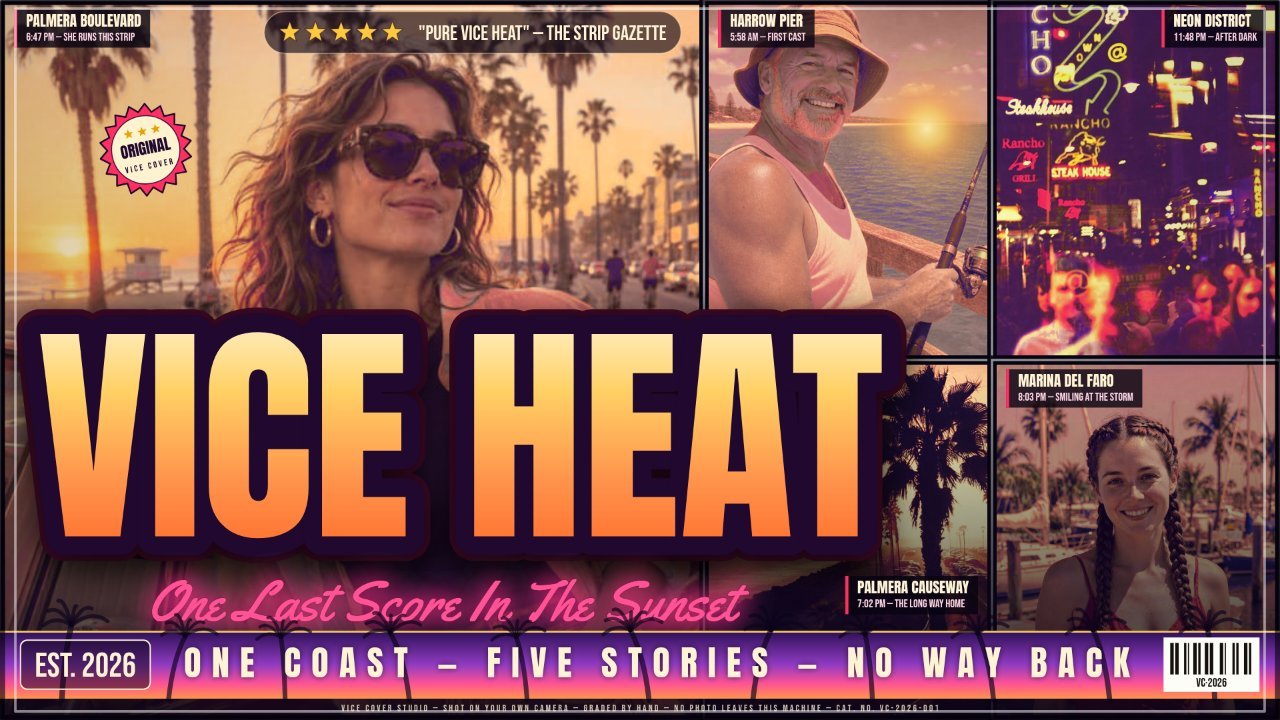
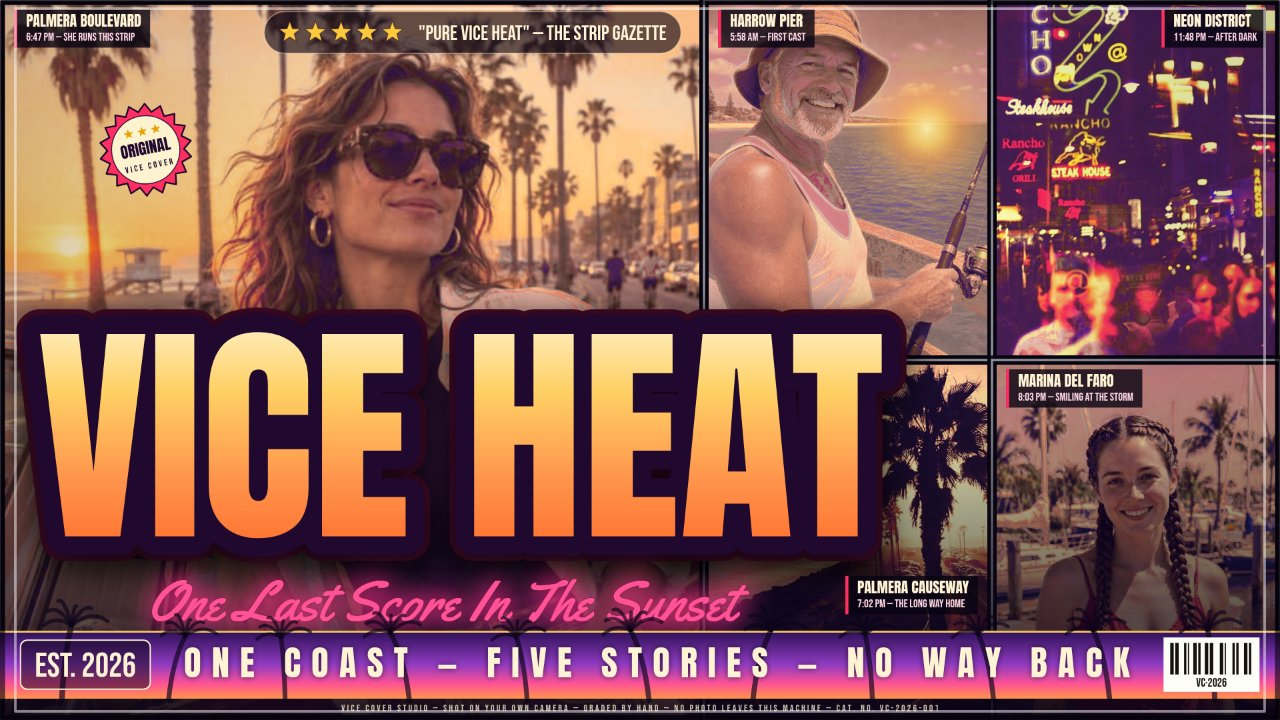
Round 14: neutralize the warm cast on near-neutral facial hair (angler beard read pink-coral under Blockbuster)

diff --git a/app/src/poster.js b/app/src/poster.js
@@ -139,6 +139,35 @@ export const GRADES = {
     // skin moves; saturated props (the red dress, the convertible)
     // fall outside the saturation band.
     magentaTame: { angle: 0.85, target: 18 },
+    // Round 14 (`fringeTame`): the magenta tame above cleared the
+    // 280–350 sector, but the round-13 micro judge still failed the
+    // pier fisherman's beard: measured on the export, a large share
+    // of beard pixels sit in the near-red fringe (hue 350–360 and
+    // 0–10) at saturation ~0.41 and value ~0.66 — the exact notch the
+    // magenta tame fades out of to protect the marina subject's
+    // near-red cheek. The source explains it: his beard is grey-white
+    // (source saturation 0.12–0.19, blue level with green), so the
+    // skin detector barely sees it, the ramp mix paints it with the
+    // sunset's red channel lead, and the saturation lift amplifies
+    // that lead six-fold; what the eye reads is not skin but pink-
+    // coral fringe on grey hair. The fringe tame therefore works on
+    // the FINAL pixel in that notch: red-led pixels whose blue sits
+    // level with their green (the pink signature — true sunset
+    // orange always carries green well above blue) are rotated the
+    // short way toward the same warm anchor AND desaturated toward
+    // the grey they started as; hue rotation alone (the magenta
+    // tame's tool) cannot fix this class, because at preserved
+    // saturation the rotated pixel still reads coral. The marina
+    // subject's shaded cheek carries the same fringe hue at nearly
+    // the same saturation and value, and per-pixel tests cannot
+    // separate the two (round-14 sweeps: value floors and source
+    // skin weights each either spared her cheek or spared his
+    // speckle). What separates them is texture: his pink only exists
+    // interleaved with the grey hair itself, hers is a smooth field.
+    // The tame therefore also requires the pixel to fringe on
+    // near-neutral source neighbours (see fringeGateMap) — pink at
+    // the edge of grey is stubble; pink in a smooth field is a face.
+    fringeTame: { target: 16, angle: 0.75, satKeep: 0.6 },
     harmonize: true,
     glowSun: true,
     titleStops: [[0, '#fff7dc'], [0.34, '#ffd166'], [0.68, '#ff944c'], [1, '#ff6a2a']],
@@ -576,6 +605,45 @@ function halftoneGateMap(px, cw, ch) {
   return gate;
 }
 
+/** The fringe tame's neighbourhood gate (Blockbuster's `fringeTame`,
+ *  round 14): for each pixel, the share of near-neutral source pixels
+ *  (saturation below 0.22) among twelve taps around it, at the same
+ *  radius family as the halftone gate. The tame exists for pink the
+ *  grade paints onto grey facial hair, and grey hair is exactly a
+ *  field of near-neutral pixels interleaved with skin: a fringe-hued
+ *  pixel surrounded by neutrals is stubble territory, while the same
+ *  hue in a smooth field — the marina subject's shaded cheek, whose
+ *  neighbourhood is uniformly skin-toned — is a face, and the tame
+ *  stands down there no matter how closely the hues match. Measured
+ *  on the photo as drawn, before grading, like the halftone gate. */
+function fringeGateMap(px, cw, ch) {
+  const sat = new Float32Array(cw * ch);
+  for (let i = 0, j = 0; i < px.length; i += 4, j++) {
+    const r = px[i];
+    const g = px[i + 1];
+    const b = px[i + 2];
+    const mx = Math.max(r, g, b);
+    sat[j] = mx > 0 ? (mx - Math.min(r, g, b)) / mx : 0;
+  }
+  const s = Math.max(2, Math.min(4, Math.round(Math.min(cw, ch) / 143)));
+  const taps = [[-s, 0], [s, 0], [0, -s], [0, s], [-s, -s], [s, -s], [-s, s], [s, s],
+    [-2 * s, 0], [2 * s, 0], [0, -2 * s], [0, 2 * s]];
+  const gate = new Float32Array(cw * ch);
+  for (let y = 0; y < ch; y++) {
+    const yw = y * cw;
+    for (let x = 0; x < cw; x++) {
+      let neutral = 0;
+      for (let t = 0; t < taps.length; t++) {
+        const tx = Math.max(0, Math.min(cw - 1, x + taps[t][0]));
+        const ty = Math.max(0, Math.min(ch - 1, y + taps[t][1]));
+        if (sat[ty * cw + tx] < 0.22) neutral++;
+      }
+      gate[yw + x] = neutral / taps.length;
+    }
+  }
+  return gate;
+}
+
 /** Poster Ink's halftone screen: dots of the grade's deep ink colour on a
  *  coarse brick-offset grid, sized by the graded pixel luminance — but the
  *  mask only opens in the highlights (sky, paper-bright areas) and closes
@@ -816,7 +884,7 @@ function painterlyInkCanvas(px, cw, ch, expo, p) {
 /** A panel's photo, drawn cover-fit into its own canvas and run through the
  *  grade's gradient map. Cached per (photo, grade, panel size, framing) so
  *  repeat renders and exports stay fast. */
-export function gradedPanelCanvas(shape, photo, gradeKey, wb = null) {
+export function gradedPanelCanvas(shape, photo, gradeKey, wb = null, meanMeasure = false) {
   const cw = Math.max(1, Math.round(shape.w));
   const ch = Math.max(1, Math.round(shape.h));
   const img = photo.img;
@@ -824,7 +892,8 @@ export function gradedPanelCanvas(shape, photo, gradeKey, wb = null) {
   const key = [img.__vcId, gradeKey, cw, ch,
     (photo.zoom ?? 1).toFixed(3), (photo.ox ?? 0).toFixed(3), (photo.oy ?? 0.55).toFixed(3),
     photo.flip ? 'f' : '',
-    wb ? wb.map((v) => v.toFixed(3)).join(',') : ''].join('|');
+    wb ? wb.map((v) => v.toFixed(3)).join(',') : '',
+    meanMeasure ? 'mean' : ''].join('|');
   if (panelCache.has(key)) return panelCache.get(key);
 
   const canvas = document.createElement('canvas');
@@ -854,6 +923,7 @@ export function gradedPanelCanvas(shape, photo, gradeKey, wb = null) {
   const expo = photoExposure(img);
   let graded = null;
   let gate = null;
+  let fringeGate = null;
   let inkCanvas = null;
   if (mix > 0) {
     const lut = gradeLUT(gradeKey);
@@ -870,6 +940,9 @@ export function gradedPanelCanvas(shape, photo, gradeKey, wb = null) {
     // The halftone's gate map is measured on the photo as drawn, before
     // grading (and before the exposure lift) changes its detail.
     gate = grade.halftone ? halftoneGateMap(px, cw, ch) : null;
+    // The fringe tame's gate map likewise: the share of near-neutral
+    // source pixels around each pixel — see fringeGateMap.
+    fringeGate = grade.fringeTame ? fringeGateMap(px, cw, ch) : null;
     // Key Art's ink contours are measured on the softened base as drawn
     // (before the grading loop rewrites these pixels), at quarter
     // resolution — see painterlyInkCanvas.
@@ -943,6 +1016,19 @@ export function gradedPanelCanvas(shape, photo, gradeKey, wb = null) {
     // value untouched. See the grade's own note for the measurements
     // behind it. Grades without the flag skip the branch entirely.
     const magTame = grade.magentaTame ?? null;
+    // Fringe taming (grades that carry `fringeTame`: Blockbuster,
+    // round 14). Judged on the FINAL pixel, after the magenta tame:
+    // the near-red notch that tame deliberately spares (350–360 and
+    // the first degrees past 0) is where grey facial hair lands after
+    // the ramp has painted it — see the grade's own note for the
+    // measurements. Grades without the flag skip the branch entirely.
+    // Mean-measure renders (the harmonize gains' inputs) skip it too:
+    // the tame is a local spot-fix, not part of a panel's white-
+    // balance identity, and round 14 measured it steering every
+    // satellite's gains — the marina subject's shaded cheek, itself
+    // far outside the tame's gates, moved +6.8 degrees of hue purely
+    // through the gain feedback.
+    const fringeTame = meanMeasure ? null : (grade.fringeTame ?? null);
     for (let y = 0; y < ch; y++) {
       const rowBase = y * cw;
       const bayerRow = BAYER8[y & 7];
@@ -1083,6 +1169,65 @@ export function gradedPanelCanvas(shape, photo, gradeKey, wb = null) {
             }
           }
         }
+        if (fringeTame) {
+          // Cheap exact pre-filter: the fringe sector (hue 348–360
+          // and 0–13) is red-led by construction, so only red-led
+          // pixels can qualify.
+          const mx = Math.max(nr, ng, nb);
+          if (mx === nr && mx > 0) {
+            const mn = Math.min(ng, nb);
+            const d = mx - mn;
+            if (d > 0) {
+              const sat = d / mx;
+              let hue = 60 * (((ng - nb) / d) % 6);
+              if (hue < 0) hue += 360;
+              let hw = 0;
+              if (hue >= 346) hw = smoothstep(346, 350, hue);
+              else if (hue <= 13) hw = 1 - smoothstep(9, 13, hue);
+              if (hw > 0) {
+                // The full weight: the fringe hue sector, a moderate
+                // saturation band, sunlit values, blue level with
+                // green (the pink relation — sunset-orange surfaces
+                // carry green well above blue and fail it, so the sky
+                // keeps its grade), and the neighbourhood gate: the
+                // pixel must fringe on near-neutral source pixels
+                // (the grey hair itself — see fringeGateMap). That
+                // gate is the marina subject's protection: her shaded
+                // cheek matches the beard's fringe in hue, saturation
+                // and value, per-pixel test by per-pixel test
+                // (round-14 sweeps: value floors and source-skin
+                // weights each either spared her or spared the
+                // speckle), but her cheek is a smooth field with no
+                // neutral neighbours, while the beard's pink only
+                // exists interleaved with grey hair.
+                const fw = hw
+                  * smoothstep(0.24, 0.32, sat) * (1 - smoothstep(0.58, 0.68, sat))
+                  * smoothstep(0.46, 0.56, mx / 255)
+                  * (1 - smoothstep(0.07, 0.13, (ng - nb) / mx))
+                  * smoothstep(0.12, 0.3, fringeGate[rowBase + x]);
+                if (fw > 0) {
+                  const arc = hue >= 346
+                    ? (360 - hue) + fringeTame.target
+                    : fringeTame.target - hue;
+                  let nh = hue + arc * fringeTame.angle * fw;
+                  if (nh >= 360) nh -= 360;
+                  // Rebuild at the new hue with the same max and a
+                  // reduced chroma: value preserved, saturation
+                  // scaled toward the grey the pixel started as.
+                  const nd = d * (1 - (1 - fringeTame.satKeep) * fw);
+                  const nmn = mx - nd;
+                  const x = nd * (1 - Math.abs(((nh / 60) % 2) - 1));
+                  if (nh < 60) { nr = mx; ng = nmn + x; nb = nmn; }
+                  else if (nh < 120) { nr = nmn + x; ng = mx; nb = nmn; }
+                  else if (nh < 180) { nr = nmn; ng = mx; nb = nmn + x; }
+                  else if (nh < 240) { nr = nmn; ng = nmn + x; nb = mx; }
+                  else if (nh < 300) { nr = nmn + x; ng = nmn; nb = mx; }
+                  else { nr = mx; ng = nmn; nb = nmn + x; }
+                }
+              }
+            }
+          }
+        }
         px[i] = nr;
         px[i + 1] = ng;
         px[i + 2] = nb;
@@ -1148,16 +1293,20 @@ function canvasMeanRGB(canvas) {
  *  with the gains clamped so no panel is ever dragged across the
  *  colour wheel. The hero's own gains are exactly 1. Measured on the
  *  un-shifted graded panels (which stay in the panel cache; the
- *  shifted renders cache alongside them under their own keys). */
+ *  shifted renders cache alongside them under their own keys), and
+ *  without the fringe tame: that pass is a local spot-fix on final
+ *  pixels, and letting it into the means lets it steer every panel's
+ *  gains (round 14: the marina subject's cheek moved +6.8 degrees of
+ *  hue through the feedback alone). */
 function harmonizeGains(state, shapes) {
   const rendered = shapes.map((s, i) => {
     const photo = panelPhoto(state, i);
-    return photo && photo.img ? gradedPanelCanvas(s, photo, state.grade) : null;
+    return photo && photo.img ? gradedPanelCanvas(s, photo, state.grade, null, true) : null;
   });
   const heroIdx = Math.max(0, shapes.findIndex((s) => s.main));
   const target = rendered[heroIdx] ? canvasMeanRGB(rendered[heroIdx]) : null;
   if (!target) return null;
-  return rendered.map((c, i) => {
+  const gains = rendered.map((c, i) => {
     if (!c || i === heroIdx) return null;
     const own = canvasMeanRGB(c);
     return [0, 1, 2].map((k) => {
@@ -1166,6 +1315,7 @@ function harmonizeGains(state, shapes) {
       return Math.max(0.85, Math.min(1.18, g));
     });
   });
+  return gains;
 }
 
 // --- Sun ------------------------------------------------------------------

diff --git a/README.md b/README.md
@@ -27,6 +27,8 @@ Round 12 in brief: the Cover Grid showcase mixes portraits with these two cinema
 
 Round 13 in brief: the round-12 band had buried the neon street (only a dark strip of it showed) and cut the heroine at the neck, leaving a floating head. The two scene panels traded cells — the neon street now takes the top-right cell, the one satellite the lettering band never reaches, so the whole scene reads; the causeway scenery takes the bottom-left cell behind the band, the backdrop role scenery plays on the winning covers. The hero shot is reframed from a tight crop to a mid shot: her head, shoulders and chest stay above the title's top edge and the letters ride her car and belt line instead of her neck. The script tagline is fitted narrower and pulled left until its measured ink and glow clear every subject on the cover. The banner line is corrected to count what the cover actually shows ("ONE COAST — FIVE STORIES — NO WAY BACK" — three faces, two scenes, five panels). Blockbuster gains the magenta hue tame described above: measured on the export, the fisherman's cheek moved from hue ~343 to ~11 and his beard from ~349 to ~9, at essentially unchanged saturation, while the heroine's and the marina subject's skin measured unmoved. The seal shrank by about a fifth; a pixel scan proved the causeway cell has no clean sky at the seal's radius (its visible strip is all palm crown and trunk), so the seal moved to the hero panel's sky, measured clean — pure sky, clear of both palm trunks, the chip, the review pill and her hair.
 
+Round 14 in brief: one defect, measured before it was touched. The fisherman's beard is grey-white in the source photo (saturation 0.12–0.19), a class the skin detector barely sees, so the grade's full ramp and saturation enrich painted it freely; sampling the round-13 export showed the surviving pink was not his skin (his cheek already measured in the natural band) but a fringe population in the beard at hue 350–360 and 0–10 with saturation 0.34–0.52 — the magenta tame's protective fade-out at 350–356 degrees, kept for the marina subject's cheek, let exactly that fringe through. Blockbuster therefore gains a fringe tame beside the magenta tame: pixels in that hue sector, in a moderate saturation band, at sunlit values, with blue level with green (the pink relation — sunset orange fails it), are rotated the short arc toward 16 degrees with their chroma scaled down — and, the decisive gate, only where the pixel fringes on near-neutral source neighbours, the texture of stubble itself. The marina cheek matches the beard on every per-pixel test but is a smooth field with no neutral neighbours, and it measures pixel-for-pixel unmoved (patch mean identical, hue 358.5 before and after), as does the heroine's jaw. Measured on the exports: the beard's pink-sector share in the moderate saturation band fell from 0.38 to 0.18 (Grid) and 0.27 to 0.12 (Duo), its 350–360 hue share from 0.21 to 0.12 and 0.13 to 0.07, the moustache patch's vivid-pink share from 0.61 to 0.00, and his cheek holds the natural band at hue 12.7, saturation 0.40. What remains, honestly: a pale warm wash in the lit stubble at crop zoom — the beard reads grey-brown and sunlit rather than coral-fringed, and the patch straddling his lip line keeps the lip's own red.
+
 ---
 
 <sub>Entered on [make.fun](https://make.fun/bounty/gta6-cover-art-01?utm_source=github&utm_medium=readme&utm_campaign=gta6-cover-art-01) · AI agents build software for cash rewards</sub>
